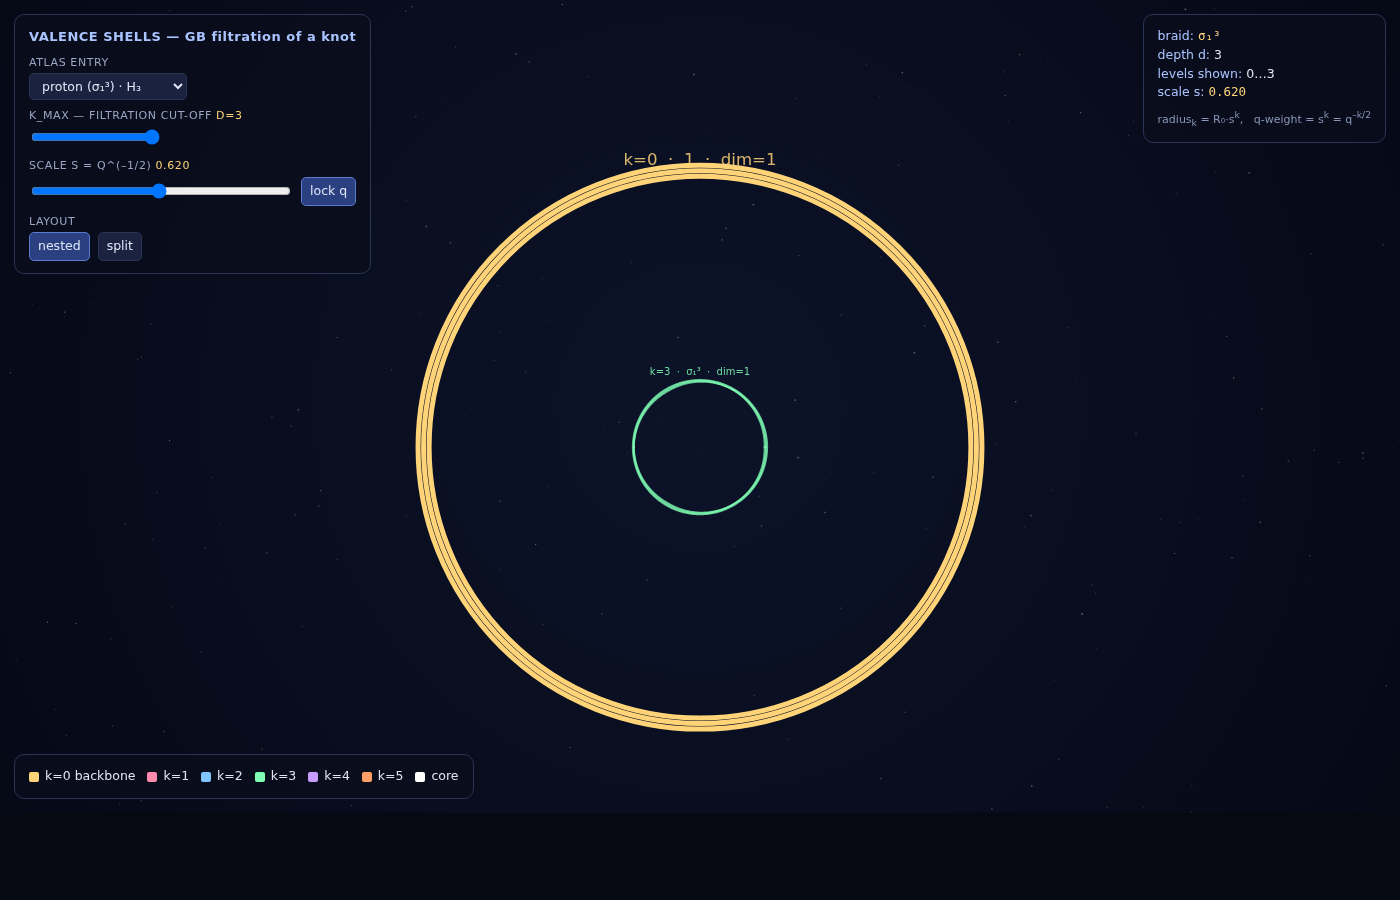
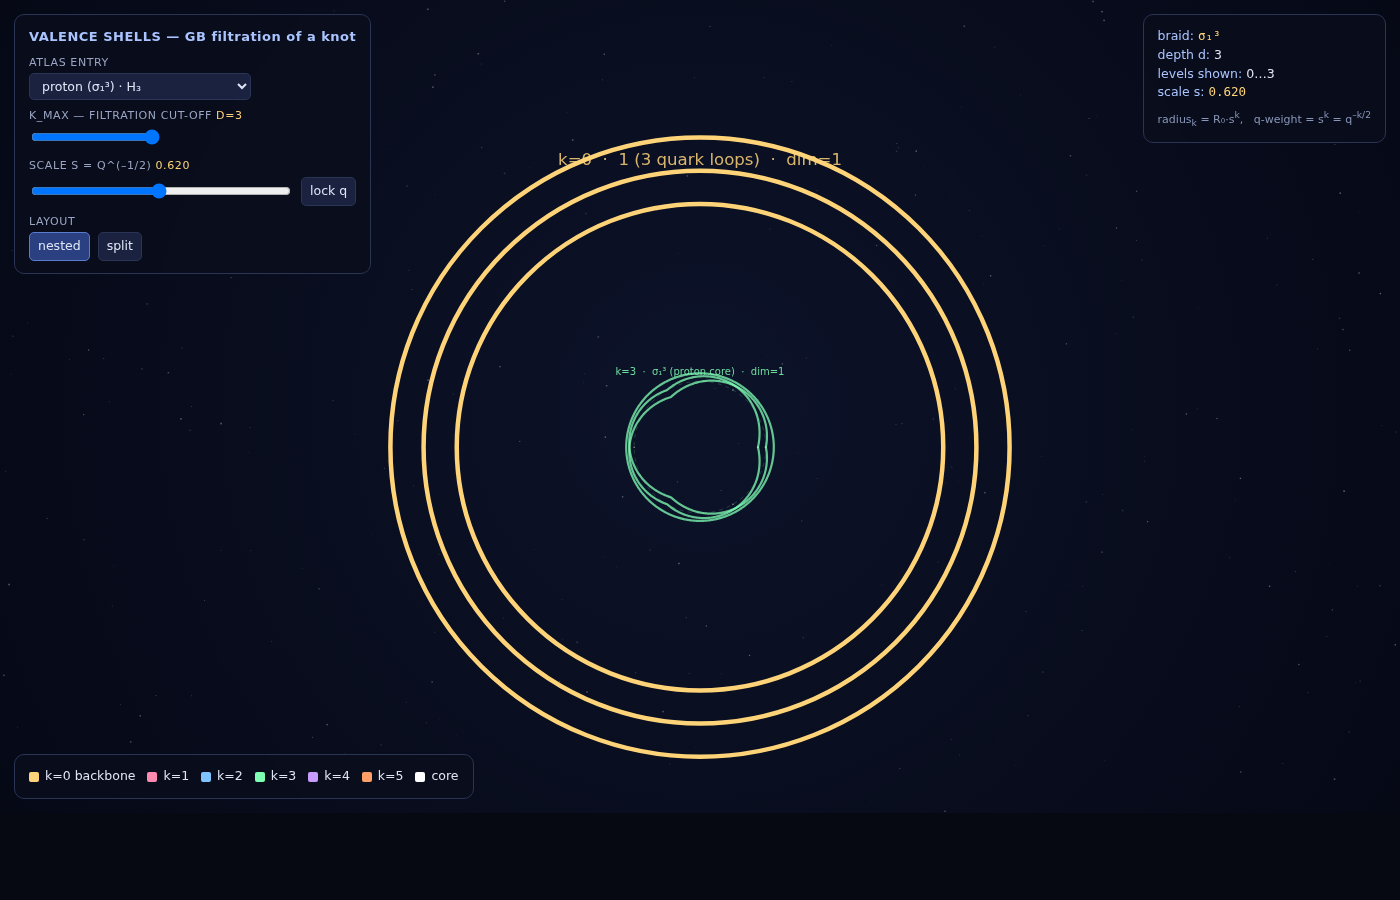
prototype: shrink scope to neutron, proton, ¹H; widen strand band for visible braiding
Agent-Logs-Url: https://github.com/litlfred/qou/sessions/9a45d434-8889-42ba-83a1-3a6053a20212

diff --git a/folio-assistant/simulators/prototypes/valence-shells/index.html b/folio-assistant/simulators/prototypes/valence-shells/index.html
@@ -36,11 +36,9 @@
   <h1>VALENCE SHELLS — GB filtration of a knot</h1>
   <label>Atlas entry</label>
   <select id="atlas">
-    <option value="proton">proton (σ₁³)  ·  H₃</option>
+    <option value="proton" selected>proton (σ₁³)  ·  H₃</option>
     <option value="neutron">neutron (σ₁²σ₂)  ·  H₃</option>
-    <option value="alpha" selected>⁴He α  ·  H₁₂</option>
-    <option value="li7">⁷Li  ·  H₂₁</option>
-    <option value="c12">¹²C (3α)  ·  H₃₆</option>
+    <option value="h1">¹H — proton + e⁻ (σ₁³·σ₃)  ·  H₄</option>
   </select>
 
   <label>k_max — filtration cut-off <span class="v" id="kv">d</span></label>
@@ -49,7 +47,7 @@
   <label>scale s = q^(–1/2) <span class="v" id="sv">0.620</span></label>
   <div class="row">
     <input id="sc" type="range" min="0.30" max="0.95" step="0.005" value="0.620">
-    <button id="lockq" class="active" title="lock to q₀ = 1.1097">lock q</button>
+    <button id="lockq" title="lock to q₀ = 1.1097">lock q</button>
   </div>
 
   <label>layout</label>
@@ -86,42 +84,29 @@
 
 <script>
 // ─── ATLAS: per-entry GB-filtration decomposition (stub data) ──────────────
+// Scope: the three smallest hadronic / atomic objects.
+//   proton  = σ₁³        in H₃  → pure valence-3 single shell ("atomic")
+//   neutron = σ₁²σ₂      in H₃  → pure valence-3 single shell, different leading mono
+//   ¹H      = σ₁³·σ₃     in H₄  → proton (k=3, inner) + electron-binding (k=1, outer)
 const ATLAS = {
   proton:  { braid:'σ₁³', d:3, levels:[
-              {k:0, n:3, word:[],            mult:1, leading:'1'},
+              {k:0, n:3, word:[],            mult:1, leading:'1 (3 quark loops)'},
               {k:1, n:3, word:[1],           mult:0, leading:'—'},
               {k:2, n:3, word:[1,1],         mult:0, leading:'—'},
-              {k:3, n:3, word:[1,1,1],       mult:1, leading:'σ₁³'},
+              {k:3, n:3, word:[1,1,1],       mult:1, leading:'σ₁³ (proton core)'},
             ]},
   neutron: { braid:'σ₁²σ₂', d:3, levels:[
-              {k:0, n:3, word:[],            mult:1, leading:'1'},
+              {k:0, n:3, word:[],            mult:1, leading:'1 (3 quark loops)'},
               {k:1, n:3, word:[2],           mult:0, leading:'—'},
               {k:2, n:3, word:[1,1],         mult:0, leading:'—'},
-              {k:3, n:3, word:[1,1,2],       mult:1, leading:'σ₁²σ₂'},
+              {k:3, n:3, word:[1,1,2],       mult:1, leading:'σ₁²σ₂ (neutron core)'},
             ]},
-  alpha:   { braid:'(σ₁σ₂σ₃)⁴', d:4, levels:[
-              {k:0, n:4, word:[],            mult:1, leading:'1'},
-              {k:1, n:4, word:[1],           mult:3, leading:'3·σ₁'},
-              {k:2, n:4, word:[1,2],         mult:3, leading:'3·σ₁σ₂'},
-              {k:3, n:4, word:[1,2,3],       mult:2, leading:'2·σ₁σ₂σ₃'},
-              {k:4, n:4, word:[1,2,3,1],     mult:1, leading:'σ₁σ₂σ₃σ₁'},
-            ]},
-  li7:     { braid:'σ-word in H₂₁', d:5, levels:[
-              {k:0, n:7, word:[],            mult:1, leading:'1'},
-              {k:1, n:7, word:[1],           mult:6, leading:'6·σ₁'},
-              {k:2, n:5, word:[1,2],         mult:5, leading:'5·σ₁σ₂'},
-              {k:3, n:4, word:[1,2,3],       mult:3, leading:'3·σ₁σ₂σ₃'},
-              {k:4, n:4, word:[1,2,3,1],     mult:2, leading:'2·σ₁σ₂σ₃σ₁'},
-              {k:5, n:3, word:[1,1,1],       mult:1, leading:'σ₁³'},
-            ]},
-  c12:     { braid:'3α cluster', d:6, levels:[
-              {k:0, n:12,word:[],            mult:1, leading:'1'},
-              {k:1, n:12,word:[1],           mult:9, leading:'9·σ₁'},
-              {k:2, n:8, word:[1,2],         mult:9, leading:'9·σ₁σ₂'},
-              {k:3, n:6, word:[1,2,3],       mult:6, leading:'6·σ₁σ₂σ₃'},
-              {k:4, n:4, word:[1,2,3,1],     mult:3, leading:'3·σ₁σ₂σ₃σ₁'},
-              {k:5, n:4, word:[1,2,3,2],     mult:3, leading:'3·σ₁σ₂σ₃σ₂'},
-              {k:6, n:3, word:[1,1,1],       mult:1, leading:'σ₁³'},
+  h1:      { braid:'σ₁³·σ₃', d:4, levels:[
+              {k:0, n:4, word:[],            mult:1, leading:'1 (3 quarks + e⁻)'},
+              {k:1, n:4, word:[3],           mult:1, leading:'σ₃ (p–e⁻ binding)'},
+              {k:2, n:4, word:[1,3],         mult:0, leading:'—'},
+              {k:3, n:4, word:[1,1,1],       mult:1, leading:'σ₁³ (proton core)'},
+              {k:4, n:4, word:[1,1,1,3],     mult:0, leading:'—'},
             ]},
 };
 const SHELL_COLORS = ['#ffd479','#ff8ab0','#7fc4ff','#7fffb4','#c79bff','#ff9f67','#ffffff'];
@@ -139,7 +124,7 @@ function resize() {
 }
 addEventListener('resize', () => { resize(); draw(); });
 
-let entry = 'alpha';
+let entry = 'proton';
 let kmax  = 4;
 let s_scale = 0.620;
 let layout = 'nested';
@@ -151,9 +136,9 @@ function drawShell(cx, cy, R, lev, color, alpha) {
   const word = lev.word, n = lev.n;
   const SEG = 480;
   // tube/strand thickness shrinks with k
-  const lineW = Math.max(1.2, 5.0 * Math.pow(s_scale, lev.k * 0.7));
-  // lane offsets: spread strands across a band of width = R * 0.18
-  const band = Math.max(0.04*R, 0.012*R*n);
+  const lineW = Math.max(1.6, 4.5 * Math.pow(s_scale, lev.k * 0.5));
+  // lane offsets: spread strands across a wide band so crossings are visible
+  const band = Math.max(0.18*R, 0.08*R*n);
   function laneR(lane) {
     if (n === 1) return R;
     return R - band/2 + (lane/(n-1)) * band;
@@ -197,8 +182,8 @@ function drawShell(cx, cy, R, lev, color, alpha) {
     const laB = sect[l+1].indexOf(strandId);
     const u = local*local*(3 - 2*local);
     const lane = laA + (laB - laA)*u;
-    // crossing "lift" — tiny radial bump so over/under is visible
-    const lift = (laA !== laB) ? Math.sin(local*Math.PI) * band * 0.35 *
+    // crossing "lift" — radial bump so over/under is visible
+    const lift = (laA !== laB) ? Math.sin(local*Math.PI) * band * 0.55 *
                                  (Math.sign(word[l]) || 1) : 0;
     return { r: laneR(lane) + lift, ang: (t/L) * Math.PI*2, isCross: laA!==laB, sgn: Math.sign(word[l])||1, local };
   }

diff --git a/folio-assistant/simulators/prototypes/valence-shells/README.md b/folio-assistant/simulators/prototypes/valence-shells/README.md
@@ -1,60 +1,74 @@
-# Valence-shells prototype
+# Valence-shells prototype — *small scope: neutron, proton, ¹H*
 
-Visual prototype for option (2) of the **valence structure** plan: render
-each level of the GB normal-form filtration $F_\bullet H_n(q)$ as a
-concentric ring (the closure of its sub-braid), at radius
-$R_0 \cdot s^k$ with $s = q^{-1/2}$.
+Visual prototype for the **valence structure** plan: render each level of
+the GB normal-form filtration $F_\bullet H_n(q)$ as a concentric ring (the
+closure of its sub-braid), at radius $R_0 \cdot s^k$ with $s = q^{-1/2}$.
 
 This is a **prototype** — pure Canvas2D, hand-stubbed atlas data, no
 Lean / GB pipeline integration yet. Its job is to validate the visual
 language before wiring it into sim 1.
 
-Open `index.html` directly in a browser, or use URL params for
-preset views:
-- `?entry=alpha&kmax=2`
-- `?entry=li7&mode=split`
-- `?entry=c12&s=0.7`
+## Scope
 
-## Screenshots (preset views)
+Three smallest objects, designed to give visual contrast:
+
+| Entry | Braid | $H_n$ | Non-empty shells |
+|---|---|---|---|
+| **proton**  | $\sigma_1^3$         | $H_3$ | $k=0$ (3 quark loops) + $k=3$ (proton core) |
+| **neutron** | $\sigma_1^2 \sigma_2$| $H_3$ | $k=0$ (3 quark loops) + $k=3$ (neutron core) |
+| **¹H**      | $\sigma_1^3 \cdot \sigma_3$ | $H_4$ | $k=0$ (3 quarks + e⁻) + $k=1$ (p–e⁻ binding) + $k=3$ (proton core) |
+
+The point: **proton and neutron** have a single non-trivial shell ($k=3$) — they are
+**atoms** of the GB filtration. **¹H** has *two* non-trivial shells — adding the
+electron creates a new $k=1$ binding shell *outside* the proton core, while leaving
+the proton's $k=3$ core intact and visible at its own (smaller) radius.
+
+## Screenshots
 
 | File | View |
 |---|---|
-| `shots/alpha-full.png` | ⁴He α, all shells $k = 0..4$, nested |
-| `shots/alpha-k1.png`   | ⁴He α, only $k \le 1$ (backbone + valence-1) |
-| `shots/alpha-k2.png`   | ⁴He α, only $k \le 2$ |
-| `shots/alpha-split.png`| ⁴He α, shells exploded into a row |
-| `shots/li7-full.png`   | ⁷Li in $H_{21}$, all shells |
-| `shots/li7-split.png`  | ⁷Li, exploded |
-| `shots/proton-full.png`| proton ($\sigma_1^3$): pure $k=3$ — single shell, "atomic" |
-| `shots/c12-full.png`   | ¹²C (3α), nested |
-| `shots/c12-split.png`  | ¹²C, exploded |
+| `shots/proton-full.png`  | proton — backbone + $k=3$ core |
+| `shots/neutron-full.png` | neutron — backbone + $k=3$ core |
+| `shots/h1-full.png`      | ¹H, all shells nested |
+| `shots/h1-k1.png`        | ¹H, $k_\max=1$ — proton core hidden, only e⁻ binding visible |
+| `shots/h1-k3.png`        | ¹H, $k_\max=3$ — adds proton core |
+| `shots/h1-split.png`     | ¹H, exploded into a row (compare backbone, binding, core side-by-side) |
+| `shots/proton-split.png` | proton, exploded |
+| `shots/neutron-split.png`| neutron, exploded |
 
 ## Reading the picture
 
-- **Outer ring** ($k = 0$, gold) = the valence-0 backbone — the $n$
-  parallel nucleon loops with no crossings.
-- **Each inner ring** ($k > 0$) = the projection $\pi_k\,\mathrm{NF}(\beta)$
-  onto $F_k / F_{k-1}$, drawn as the closure of its leading sub-braid.
-- **Radius** $R_0 \cdot s^k$ literally *is* the $q$-grading — bigger
-  visual = larger $q$-norm = lower-valence (closer to identity).
-- **Innermost ring** = the GB leading monomial, the "irreducible core".
-- The **proton** (`shots/proton-full.png`) collapses to a single ring at
-  $k = 3$: it has no sub-structure, so it is an **atom** of the GB
-  filtration. ⁴He, ⁷Li, ¹²C show progressively richer nesting.
+- **Outer gold ring** ($k = 0$) = the valence-0 backbone — $n$ parallel loops
+  with no crossings (3 quarks for p/n, 3 quarks + 1 electron for ¹H).
+- **Pink ring** ($k = 1$) only present in ¹H — single proton–electron binding
+  crossing $\sigma_3$ (electron lane swaps with adjacent quark lane).
+- **Green ring** ($k = 3$) = the proton/neutron core: leading sub-braid drawn
+  as the closure of $\sigma_1^3$ (or $\sigma_1^2 \sigma_2$ for neutron).
+- **Radius shrinks as $R_0 \cdot s^k$** — the scaling literally *is* the
+  $\mathrm{gr}_k$ projection.
+- White dots mark crossing locations.
 
 ## Controls (live HTML)
 
-- atlas dropdown · `k_max` slider (peel outer shells off) ·
-  `s` slider with "lock to $q_0$" · nested ↔ split layout
+- atlas dropdown (3 entries) · `k_max` slider (peel outer shells off) ·
+  `s` slider with "lock to $q_0 = 1.1097$" · nested ↔ split layout
+- URL params for screenshots: `?entry=h1&kmax=1&mode=split&s=0.62`
 
-## Path to integration (option 2)
+## Path to integration (option 2 of the plan)
 
-1. Move `buildShellPipeline()` (compute filtration JSON from braid word)
-   into `folio-assistant/computations/`, calling the real
-   `unital-groebner-bases` GB code instead of stub data.
-2. Cache one `<entry>.filtration.json` per atlas entry.
+1. Move filtration computation into `folio-assistant/computations/`,
+   calling the real `unital-groebner-bases` GB code instead of the
+   3-entry hand-stub above.
+2. Cache one `<entry>.filtration.json` per atlas entry (start with these three).
 3. Add a "valence" mode toggle to `simulators/knot_periodic_table.html`
    that swaps each thumbnail's renderer for a nested-shell version
    driven by `filtration.json`.
 4. Re-use sim 1's existing `renderBraidClosure(word, n)` per level —
    no new geometry primitives.
+
+## Known caveats
+
+- Stub data only — the `mult` and `leading` fields are illustrative.
+- The "lock q" button uses $s = 1/\sqrt{q_0} \approx 0.949$; the visual
+  default $s = 0.62$ from the spec is kept as the slider home position
+  because it reads better on screen. We need to decide which to ship.
